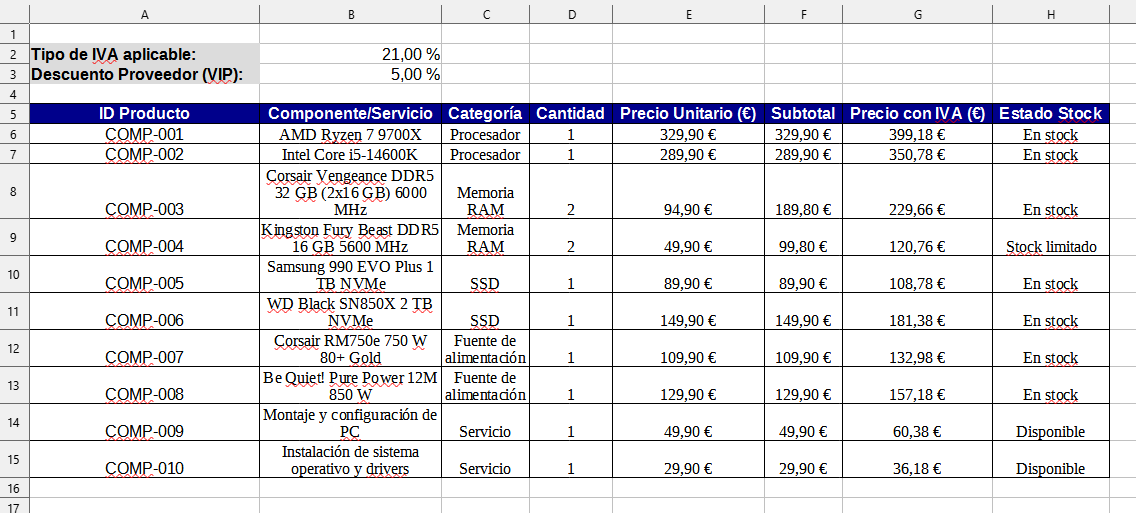
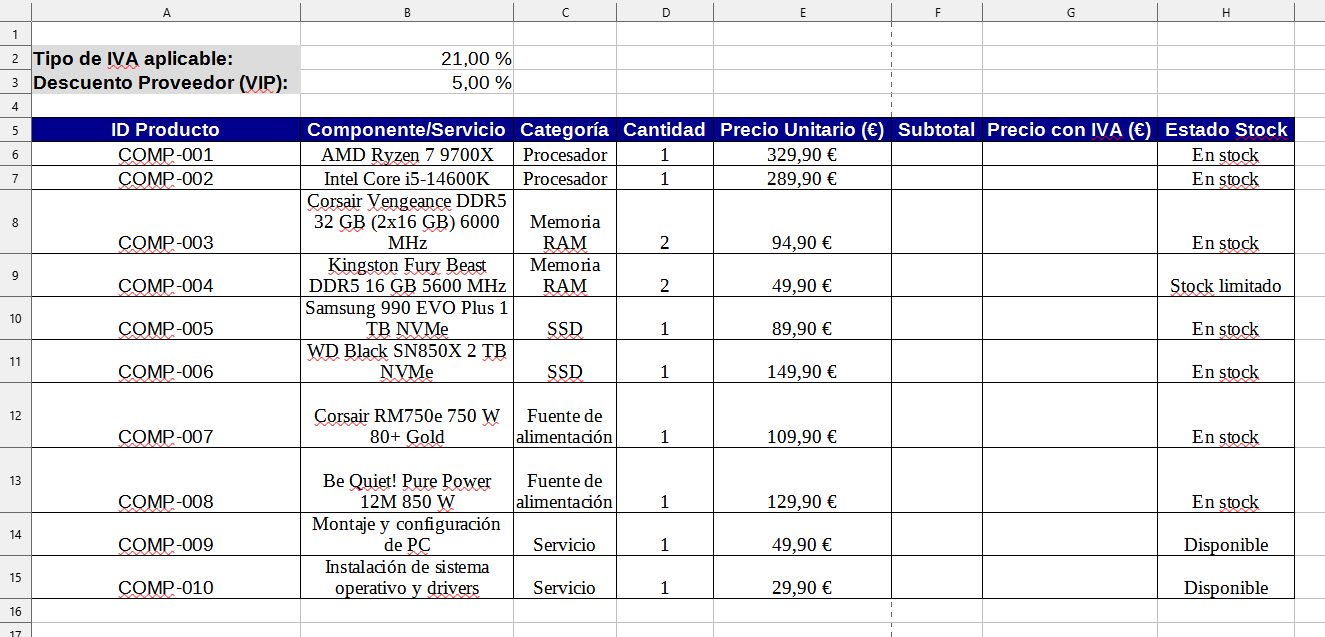
acabado ej. 2 actividad 2

Changed region(s): [[0.0, 0.0312, 1.0, 1.0]]

diff --git a/asignaturas/digitalizacion/documentos-digitales/actividad2/index.md b/asignaturas/digitalizacion/documentos-digitales/actividad2/index.md
@@ -30,7 +30,7 @@ Comenzaremos creando la tabla de costes de componentes informáticos y aplicando
 4. **Serie de IDs (`A6:A15`):**
    * Escribe `COMP-001` en `A6` y arrastra el tirador de relleno (cuadradito negro de la esquina de la celda) hacia abajo hasta `A15` para generar los códigos (`COMP-001` a `COMP-010`).
 5. **Relleno de datos y Formato Moneda (€):**
-   * Rellena las filas `B6:E15` con 10 componentes, sus cantidades y sus precios unitarios.
+   * Rellena las filas `B6:E15` con 10 componentes y/o servicios informáticos (procesadores, discos duros, memorias RAM, montaje, instalación, etc.), sus cantidades, precios unitarios y estado de stock. Puedes utilizar una IA para que te ayude en esta tarea. **No rellenes el subtotal ni el precio con IVA ya que se calcularán de forma automática en posteriores ejercicios.**{: .rojo}.
    * Selecciona las columnas de precios (`E6:G15`) y haz clic en el icono de **Moneda (€)** en la barra de herramientas superior.
 6. **Bordes y Ancho de columna:**
    * Selecciona toda la tabla (`A5:H15`) y añade **Bordes completos** desde la barra de herramientas.
@@ -41,6 +41,9 @@ Comenzaremos creando la tabla de costes de componentes informáticos y aplicando
 
 ![Ejemplo Ejercicio 1](./captura_ejercicio1_calc_real.png)
 {: .no-border .img .img-450}
+
+> **Importante**: Sube a Aules el documento con el **ejercicio 1 finalizado** y con el nombre: `actividad2_calc_tuapellido_tunombre_ej1.ods`
+{: .alert-success}
 
 ---
 
@@ -53,9 +56,37 @@ Para realizar cálculos automáticos que se actualicen si cambian las condicione
    * En la celda `F6`, escribe la fórmula para calcular el subtotal de la primera fila: `=D6*E6` (Cantidad * Precio Unitario).
    * Copia la fórmula arrastrando el tirador de relleno hacia abajo hasta `F15`.
 2. **Cálculo del Precio con IVA (Referencia Absoluta `$B$2`):**
-   * En la celda `G6`, calcula el importe final aplicando la celda del IVA fija: `=F6*(1+$B$2)`.
-   * > 💡 **¿Por qué usamos `$B$2`?** El signo `$` fija la fila y la columna para que al arrastrar la fórmula hacia abajo, la celda del IVA no cambie a B3, B4, etc.
+
+   * En la celda `G6`, calcula el importe final aplicando el IVA.
+   
+ > **Nota:** Para calcular el precio con IVA de un producto, suma al subtotal el resultado de multiplicar el subtotal por el tipo de IVA. Es decir, la fórmula quedaría: `=F6+F6*$B$2`, ya que la celda `B2` es la celda donde tenemos anotado el IVA que se debe aplicar.
+ {: .alert-info}
+
+> 💡 **¿Por qué usamos `$B$2`?** El signo `$` puesto delante de la letra fija la fila y puesto delante del número fija la columna para que al arrastrar la fórmula hacia abajo, la celda del IVA no cambie a B3, B4, etc.
+{: .alert-warning}
    * Copia la fórmula desde `G6` hasta `G15`. Comprueba que todas las filas calculan el IVA correctamente sobre la celda `B2`.
+
+3. **Cálculo del Precio con Descuento (Referencia Absoluta `$B$3`):**
+   * Añade una nueva columna a la tabla con la cabecera **«Precio con Descuento (€)»**. Puedes aplicar fácilmente el estilo y formato del resto de columnas seleccionando una celda ya formateada y haciendo clic en **Clonar formato** (icono del pincel/brocha de la barra de herramientas).
+   * En la celda `I6`, **calcula el importe final aplicando el descuento del proveedor.**
+{:start="3"}
+
+ > **Nota:** Para calcular el precio con descuento de un producto, debes escribir una fórmula que reste al precio con IVA (en la columna G) el resultado de multiplicar el precio con IVA por el porcentaje de descuento (en la celda `B3`).
+ {: .alert-info}
+
+> 💡 **Recordatorio:** Al igual que con el IVA, usamos la referencia absoluta `$B$3` para fijar la celda del descuento al arrastrar la fórmula hacia abajo.
+{: .alert-warning}
+
+   * Copia la fórmula desde `I6` hasta `I15`. Comprueba que todas las filas calculan el descuento correctamente sobre la celda `B3`.
+
+**Ejemplo de resultado esperado (Fórmulas básicas y referencias relativas y absolutas):**
+{: .centrado}
+
+![Ejemplo Ejercicio 2](./captura_ejercicio2_calc_real.png)
+{: .no-border .img .img-450}
+
+> **Importante**: Sube a Aules el documento con el **ejercicio 2 finalizado** y con el nombre: `actividad2_calc_tuapellido_tunombre_ej2.ods`
+{: .alert-success}
 
 ---
 
@@ -73,6 +104,9 @@ Añadiremos un resumen de métricas en la parte inferior y utilizaremos condicio
      `=SI(D6<5; "REPONER"; "OK")`
    * Arrastra la fórmula hasta `H15`. Verás que las celdas con cantidad inferior a 5 mostrarán el texto "REPONER" y el resto "OK".
 
+> **Importante**: Sube a Aules el documento con el **ejercicio 3 finalizado** y con el nombre: `actividad2_calc_tuapellido_tunombre_ej3.ods`
+{: .alert-success}
+
 ---
 
 ### 4. Formato Condicional y Código de Colores
@@ -83,6 +117,9 @@ Utilizaremos el formato condicional para que la hoja destaque visualmente las al
 3. **Regla 1 (Alerta Red):** Si el valor de la celda es *igual a* `"REPONER"`, aplica un estilo con fondo rojo claro y texto en rojo oscuro/negrita.
 4. **Regla 2 (Correcto Green):** Añade una segunda condición: si el valor es *igual a* `"OK"`, aplica un estilo con fondo verde claro y texto en verde oscuro.
 5. **Escala de Color / Barras de datos en Cantidades:** Selecciona el rango de Cantidades (`D6:D15`), ve a *Formato -> Formato condicional -> Barra de datos* para añadir una barra visual proporcional a la cantidad almacenada.
+
+> **Importante**: Sube a Aules el documento con el **ejercicio 4 finalizado** y con el nombre: `actividad2_calc_tuapellido_tunombre_ej4.ods`
+{: .alert-success}
 
 ---
 
@@ -102,6 +139,9 @@ Representaremos visualmente los datos para facilitar la toma de decisiones.
    * Muestra las **etiquetas de datos** en porcentaje (`%`) sobre cada porción del gráfico.
 3. Coloca ambos gráficos de forma ordenada debajo o al lado de las tablas de datos.
 
+> **Importante**: Sube a Aules el documento con el **ejercicio 5 finalizado** y con el nombre: `actividad2_calc_tuapellido_tunombre_ej5.ods`
+{: .alert-success}
+
 ---
 
 ### 6. Maquetación, Encabezado/Pie y Exportación
@@ -111,13 +151,16 @@ Representaremos visualmente los datos para facilitar la toma de decisiones.
 4. En la pestaña **Pie de página**, activa el pie y añade a la izquierda tu nombre completo y a la derecha el campo **Página X de Y**.
 5. Revisa la *Vista previa de impresión* (*Archivo -> Vista previa de la impresión*) y ajusta en la pestaña **Hoja** la opción de escala a **"Ajustar alcance(s) de impresión al número de páginas: 1"** para que todo el contenido quede perfectamente encuadrado.
 
+> **Importante**: Sube a Aules el documento con el **ejercicio 6 finalizado** y con el nombre: `actividad2_calc_tuapellido_tunombre_ej6.ods`
+{: .alert-success}
+
 ---
 
 ## Entregables en Aules
 
 Sube a la tarea de Aules los siguientes **dos archivos**:
-* **`actividad2_calc_tuapellido_tunombre.ods`** (Libro editable de LibreOffice Calc con fórmulas funcionales)
-* **`actividad2_calc_tuapellido_tunombre.pdf`** (Documento exportado en formato PDF ajustado a página)
+* **`actividad2_calc_tuapellido_tunombre_final.ods`** (Libro editable de LibreOffice Calc con fórmulas funcionales)
+* **`actividad2_calc_tuapellido_tunombre_final.pdf`** (Documento exportado en formato PDF ajustado a página)
 
 ---
 

diff --git a/asignaturas/digitalizacion/documentos-digitales/actividad1/index.md b/asignaturas/digitalizacion/documentos-digitales/actividad1/index.md
@@ -48,6 +48,9 @@ Una portada académica nunca debe llevar encabezado ni pie de página. Para logr
 ![Ejemplo Portada](./captura_portada_writer_real.png)
 {: .no-border .img .img-450}
 
+> **Importante**: Sube a Aules el documento con el **ejercicio 1 finalizado** y con el nombre: `actividad1_writer_tuapellido_tunombre_ej1.odt`
+{: .alert-success}
+
 ---
 
 ### 2. Formato de carácter y párrafo
@@ -84,6 +87,9 @@ En esta segunda página (que ahora tiene el *Estilo predeterminado*), redactarem
 ![Ejemplo Ejercicio 2](./captura_ejercicio2_writer_real.png)
 {: .no-border .img .img-450}
 
+> **Importante**: Sube a Aules el documento con el **ejercicio 2 finalizado** y con el nombre: `actividad1_writer_tuapellido_tunombre_ej2.odt`
+{: .alert-success}
+
 ---
 
 ### 3. Secciones y columnas con personalización
@@ -104,6 +110,9 @@ En esta segunda página (que ahora tiene el *Estilo predeterminado*), redactarem
 
 ![Ejemplo Ejercicio 3](./captura_ejercicio3_writer_real.png)
 {: .no-border .img .img-450}
+
+> **Importante**: Sube a Aules el documento con el **ejercicio 3 finalizado** y con el nombre: `actividad1_writer_tuapellido_tunombre_ej3.odt`
+{: .alert-success}
 
 ---
 
@@ -132,6 +141,9 @@ En esta segunda página (que ahora tiene el *Estilo predeterminado*), redactarem
 ![Ejemplo Ejercicio 4](./captura_ejercicio4_writer_real.png)
 {: .no-border .img .img-450}
 
+> **Importante**: Sube a Aules el documento con el **ejercicio 4 finalizado** y con el nombre: `actividad1_writer_tuapellido_tunombre_ej4.odt`
+{: .alert-success}
+
 ---
 
 ### 5. Secciones horizontales y saltos de página
@@ -155,6 +167,9 @@ En esta segunda página (que ahora tiene el *Estilo predeterminado*), redactarem
 ![Ejemplo Ejercicio 5](./captura_ejercicio5_writer_real.png)
 {: .no-border .img .img-450}
 
+> **Importante**: Sube a Aules el documento con el **ejercicio 5 finalizado** y con el nombre: `actividad1_writer_tuapellido_tunombre_ej5.odt`
+{: .alert-success}
+
 ---
 
 ### 6. Encabezados y pies de página con campos dinámicos
@@ -177,18 +192,21 @@ En esta segunda página (que ahora tiene el *Estilo predeterminado*), redactarem
 ![Ejemplo Ejercicio 6](./captura_ejercicio6_writer_real.png)
 {: .no-border .img .img-450}
 
+> **Importante**: Sube a Aules el documento con el **ejercicio 6 finalizado** y con el nombre: `actividad1_writer_tuapellido_tunombre_ej6.odt`
+{: .alert-success}
+
 ---
 
 ## Entregables en Aules
 
 Sube a la tarea de Aules los siguientes **dos archivos**:
-* **`actividad1_writer_tuapellido_tunombre.odt`** (archivo editable de LibreOffice Writer)
-* **`actividad1_writer_tuapellido_tunombre.pdf`** (versión exportada en formato PDF)
+* **`actividad1_writer_tuapellido_tunombre_final.odt`** (archivo editable de LibreOffice Writer)
+* **`actividad1_writer_tuapellido_tunombre_final.pdf`** (versión exportada en formato PDF)
 
 > 💡 **¿Cómo exportar a PDF en LibreOffice Writer?**
 > 1. Ve al menú superior: *Archivo -> Exportar a -> Exportar a PDF...* (o haz clic en el botón directo *Exportar directamente a PDF* de la barra de herramientas superior).
 > 2. En la ventana emergente de opciones de PDF, haz clic en **Exportar**.
-> 3. Selecciona la carpeta de la actividad, asegúrate de nombrarlo como `actividad1_writer_tuapellido_tunombre.pdf` y haz clic en **Guardar**.
+> 3. Selecciona la carpeta de la actividad, asegúrate de nombrarlo como `actividad1_writer_tuapellido_tunombre_final.pdf` y haz clic en **Guardar**.
 {: .alert-info}
 
 ---
